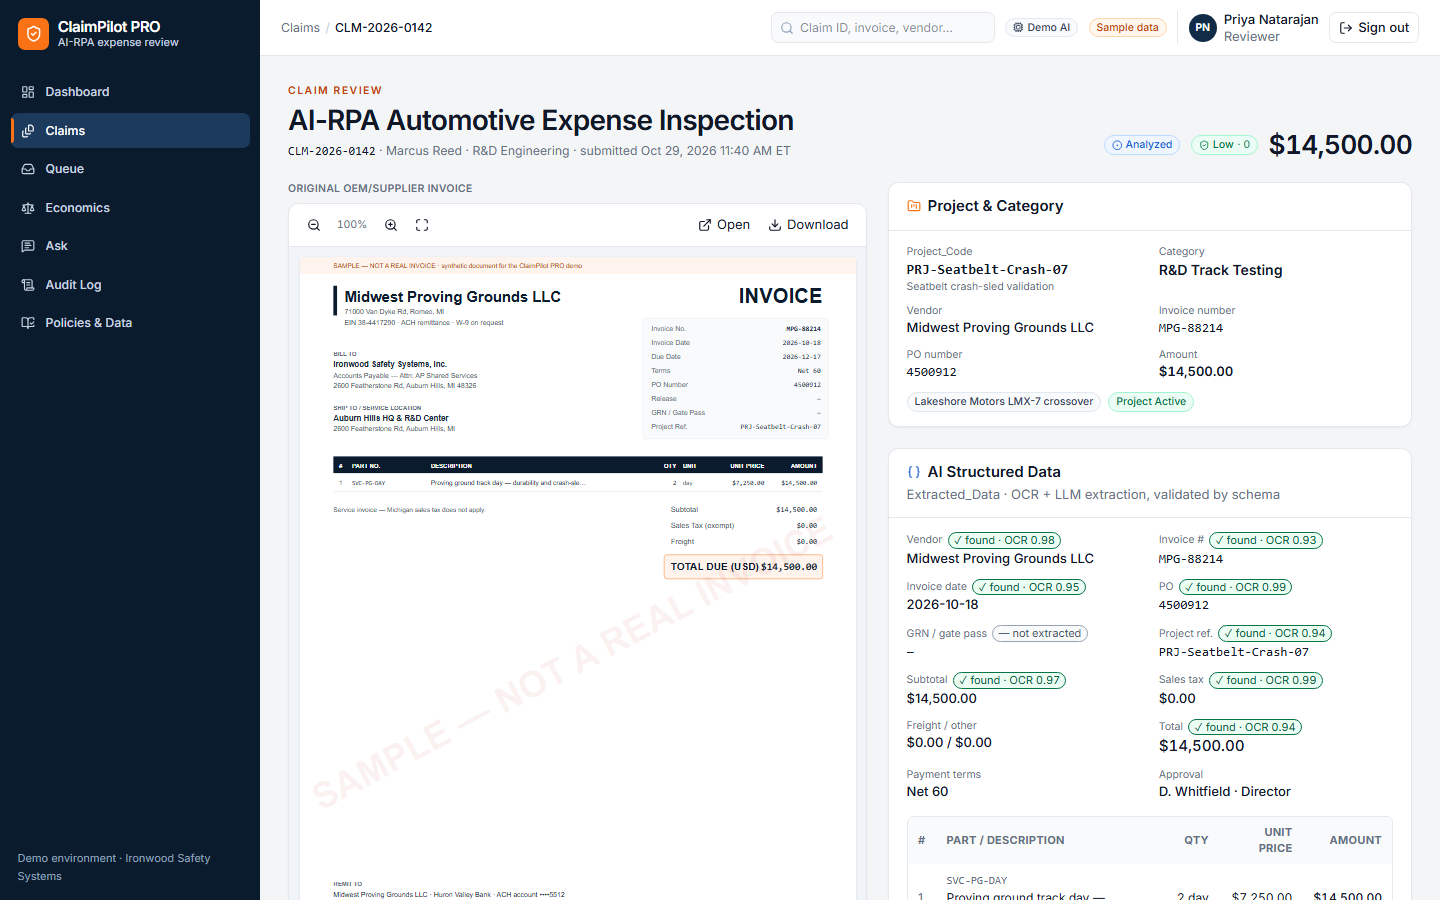
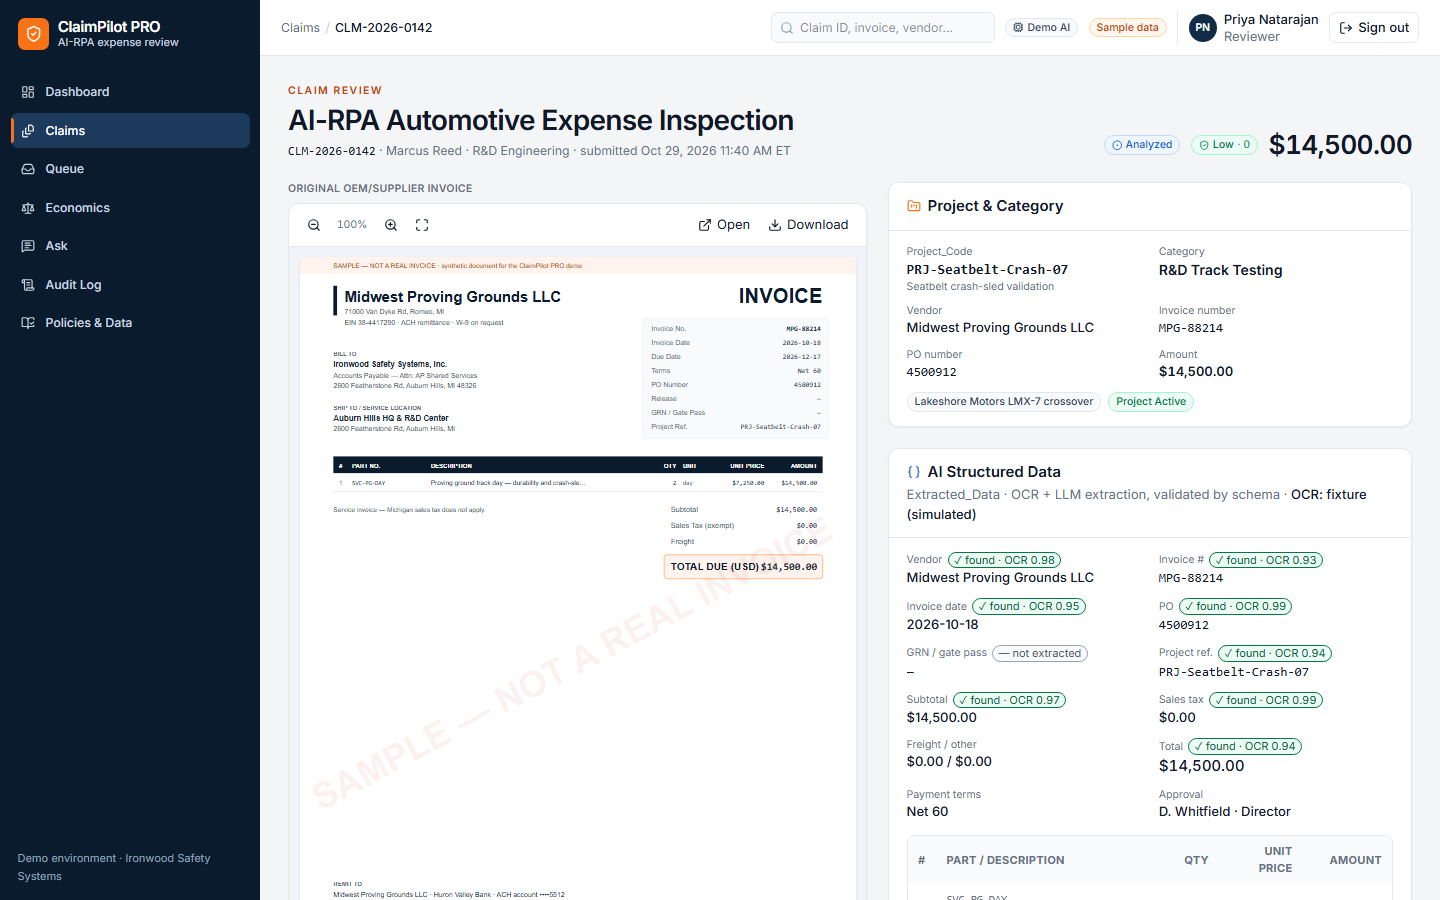
fix(ui): label simulated OCR confidence wherever it is shown; capture the annotated invoice
- src/lib/domain/ocr-source.ts: seeded claims use the demo fixture's OCR
  layer (simulated numbers), uploads use Tesseract page-level confidence.
- Chip titles and screen-reader text, the AI Structured Data subtitle
  ("OCR: fixture (simulated)"), the raw-JSON note, the annotated-invoice
  legend and the SVG image itself now state the source. Numbers kept.
- pnpm shots captures the annotated-invoice card as an element shot
  (topbar un-stuck for that capture); README table row and caption added.
  All screenshots regenerated on a freshly seeded DB in mock mode.

Changed region(s): [[0.7812, 0.5911, 0.9688, 1.0], [0.625, 0.56, 0.7812, 1.0], [0.9062, 0.5289, 0.9375, 0.56]]

diff --git a/src/components/claims/ai-data.tsx b/src/components/claims/ai-data.tsx
@@ -2,23 +2,27 @@ import { Braces, FileWarning } from "lucide-react";
 import type { Extraction } from "@/lib/domain/schemas";
 import { FIELD_LABELS, chipFor, fieldValue } from "@/lib/domain/fields";
 import type { FieldCheck } from "@/lib/ai/grounding";
+import { OCR_SOURCE_LABEL, type OcrSource } from "@/lib/domain/ocr-source";
 import { Card, CardContent, CardDescription, CardHeader, CardTitle } from "@/components/ui/card";
 import { Badge } from "@/components/ui/badge";
 
 const usd = (n: number | null) => (n === null ? "—" : new Intl.NumberFormat("en-US", { style: "currency", currency: "USD" }).format(n));
 
-function GroundingChip({ field, check, ocr }: { field: string; check: FieldCheck | undefined; ocr: number | undefined }) {
+function GroundingChip({ field, check, ocr, source }: { field: string; check: FieldCheck | undefined; ocr: number | undefined; source: OcrSource }) {
   if (check === undefined && ocr === undefined) return null;
   const chip = chipFor(check, ocr);
   return (
     <span
       className="tabular inline-flex items-center gap-1 rounded-full border px-1.5 text-[11px]"
       style={{ borderColor: chip.colors.stroke, color: chip.colors.text, background: chip.colors.fill }}
-      title="Is the value in the OCR text? · OCR-layer confidence (fixture or Tesseract), never the model's self-report"
+      title={`Is the value in the OCR text? · ${OCR_SOURCE_LABEL[source].title}; never the model's self-report`}
       data-testid={`chip-${field}`}
     >
       {chip.text}
-      <span className="sr-only"> for {FIELD_LABELS[field] ?? field}</span>
+      <span className="sr-only">
+        {" "}
+        for {FIELD_LABELS[field] ?? field}. {OCR_SOURCE_LABEL[source].title}.
+      </span>
     </span>
   );
 }
@@ -28,9 +32,12 @@ export function AiStructuredData({
   result,
   raw,
   checks,
+  ocrSource,
 }: {
   result: { ok: true; data: Extraction } | { ok: false; error: string } | null;
   raw: string | null;
+  /** Where the OCR layer (and its confidence numbers) came from: simulated fixture or Tesseract. */
+  ocrSource: OcrSource;
   /** Grounding of the scored extraction against the stored OCR text (D-37); null when no OCR text is stored. */
   checks: Record<string, FieldCheck> | null;
 }) {
@@ -41,7 +48,12 @@ export function AiStructuredData({
           <CardTitle className="flex items-center gap-2">
             <Braces className="h-4 w-4 text-info" aria-hidden /> AI Structured Data
           </CardTitle>
-          <CardDescription>Extracted_Data · OCR + LLM extraction, validated by schema</CardDescription>
+          <CardDescription>
+            Extracted_Data · OCR + LLM extraction, validated by schema ·{" "}
+            <span className="font-medium text-ink" title={OCR_SOURCE_LABEL[ocrSource].title} data-testid="ocr-source">
+              {OCR_SOURCE_LABEL[ocrSource].short}
+            </span>
+          </CardDescription>
         </div>
       </CardHeader>
       <CardContent>
@@ -54,14 +66,14 @@ export function AiStructuredData({
             </div>
           </div>
         ) : (
-          <ExtractionBody e={result.data} raw={raw} checks={checks} />
+          <ExtractionBody e={result.data} raw={raw} checks={checks} ocrSource={ocrSource} />
         )}
       </CardContent>
     </Card>
   );
 }
 
-function ExtractionBody({ e, raw, checks }: { e: Extraction; raw: string | null; checks: Record<string, FieldCheck> | null }) {
+function ExtractionBody({ e, raw, checks, ocrSource }: { e: Extraction; raw: string | null; checks: Record<string, FieldCheck> | null; ocrSource: OcrSource }) {
   const summary: [string, string, string | null][] = [
     ["Vendor", e.vendor.name ?? "—", "vendorName"],
     ["Invoice #", e.invoiceNumber ?? "—", "invoiceNumber"],
@@ -88,7 +100,7 @@ function ExtractionBody({ e, raw, checks }: { e: Extraction; raw: string | null;
         {summary.map(([label, value, field]) => (
           <div key={label} className="min-w-0">
             <dt className="flex items-center gap-1.5 text-xs text-muted">
-              {label} {field && <GroundingChip field={field} check={checks?.[field]} ocr={e.fieldConfidence[field]} />}
+              {label} {field && <GroundingChip field={field} check={checks?.[field]} ocr={e.fieldConfidence[field]} source={ocrSource} />}
             </dt>
             <dd className={`truncate font-medium ${label === "Total" ? "tabular text-[15px]" : "text-[13px]"} ${/[#.]|PO|GRN|Project/.test(label) ? "font-mono" : ""}`} title={value}>
               {value}
@@ -142,6 +154,9 @@ function ExtractionBody({ e, raw, checks }: { e: Extraction; raw: string | null;
       )}
       <details className="group rounded-lg border border-line">
         <summary className="cursor-pointer px-3 py-2 text-[13px] font-medium text-info">View raw JSON</summary>
+        <p className="border-t border-line px-3 py-2 text-xs text-muted">
+          <span className="font-mono">fieldConfidence</span>: {OCR_SOURCE_LABEL[ocrSource].title}.
+        </p>
         <pre className="max-h-80 overflow-auto border-t border-line bg-slate-950 p-3 text-[11px] leading-relaxed text-slate-100">{pretty}</pre>
       </details>
     </div>

diff --git a/src/lib/ai/annotate.ts b/src/lib/ai/annotate.ts
@@ -1,6 +1,7 @@
 import type { Extraction } from "@/lib/domain/schemas";
 import { CONFIDENCE_COLORS, FIELD_LABELS, chipFor, fieldValue } from "@/lib/domain/fields";
 import { checkField, GROUNDED_FIELDS, type GroundedField } from "./grounding";
+import { OCR_SOURCE_LABEL, type OcrSource } from "@/lib/domain/ocr-source";
 
 const W = 1200;
 const H = 1600;
@@ -15,7 +16,12 @@ const trunc = (s: string, n: number) => (s.length > n ? `${s.slice(0, n - 1)}…
  * The original is embedded as a data URI because SVG-as-image cannot fetch external resources.
  * Boxes are drawn only when the OCR layer supplied geometry; otherwise a "Fields extracted" panel is shown.
  */
-export function annotateReceipt(original: { data: Buffer; mime: string }, extraction: Extraction, ocrText: string | null = null): string {
+export function annotateReceipt(
+  original: { data: Buffer; mime: string },
+  extraction: Extraction,
+  ocrText: string | null = null,
+  ocrSource: OcrSource = "fixture",
+): string {
   // D-37: colour = grounding against the OCR text + OCR-layer confidence (never the model's self-report).
   const chip = (field: string) =>
     chipFor(
@@ -70,7 +76,7 @@ export function annotateReceipt(original: { data: Buffer; mime: string }, extrac
     parts.push(`<rect x="${x}" y="${ly + 34}" width="16" height="16" rx="3" fill="${c.stroke}"/>`);
     parts.push(`<text x="${x + 22}" y="${ly + 47}" font-size="12.5" font-family="Helvetica, Arial, sans-serif" fill="#344054">${esc(text)}</text>`);
   });
-  parts.push(`<text x="${lx + 14}" y="${ly + 80}" font-size="12.5" font-family="Helvetica, Arial, sans-serif" fill="#667085">AI-generated overlay — demo data</text>`);
+  parts.push(`<text x="${lx + 14}" y="${ly + 80}" font-size="12.5" font-family="Helvetica, Arial, sans-serif" fill="#667085">${esc(ocrSource === "fixture" ? "OCR numbers simulated (demo fixture), not measured" : OCR_SOURCE_LABEL.tesseract.title)}</text>`);
 
   return `<svg xmlns="http://www.w3.org/2000/svg" viewBox="0 0 ${W} ${H}" width="${W}" height="${H}" role="img" aria-label="AI-annotated invoice">${parts.join("")}</svg>`;
 }

diff --git a/src/components/claims/panels.tsx b/src/components/claims/panels.tsx
@@ -6,9 +6,10 @@ import { Table, TBody, TD, TH, THead, TR } from "@/components/ui/table";
 import { Badge } from "@/components/ui/badge";
 import { DecisionBadge, RiskBadge } from "./badges";
 import { ExceptionActions } from "./exception-actions";
+import { OCR_SOURCE_LABEL, type OcrSource } from "@/lib/domain/ocr-source";
 
 /** "AI-Annotated Invoice" — image connected to AI_Analyzed_Receipt. Rendered only for Status === "Analyzed". */
-export function AnnotatedInvoice({ src, claimId }: { src: string; claimId: string }) {
+export function AnnotatedInvoice({ src, claimId, ocrSource }: { src: string; claimId: string; ocrSource: OcrSource }) {
   return (
     <Card data-testid="ai-annotated-invoice">
       <CardHeader>
@@ -29,6 +30,9 @@ export function AnnotatedInvoice({ src, claimId }: { src: string; claimId: strin
         </div>
         <div className="mt-3 flex flex-wrap items-center gap-3 text-xs text-muted" title="Grounding against the OCR text and OCR-layer confidence; the model's self-reported confidence is never shown here">
           <span className="font-medium text-ink">Legend</span>
+          <span className="w-full" data-testid="annotated-ocr-source">
+            OCR numbers: <span className="font-medium text-ink">{OCR_SOURCE_LABEL[ocrSource].title}</span>
+          </span>
           <span className="inline-flex items-center gap-1.5">
             <span aria-hidden className="h-3 w-3 rounded-sm border-2" style={{ borderColor: CONFIDENCE_COLORS.high.stroke }} />✓ Found in OCR text, OCR ≥ 0.90
           </span>

diff --git a/src/app/(app)/claims/[claimId]/page.tsx b/src/app/(app)/claims/[claimId]/page.tsx
@@ -8,6 +8,7 @@ import { prisma } from "@/lib/db";
 import { claimIdSchema, parseExtractedData } from "@/lib/domain/schemas";
 import { FIELD_LABELS } from "@/lib/domain/fields";
 import { groundExtraction } from "@/lib/ai/grounding";
+import { ocrSourceOf } from "@/lib/domain/ocr-source";
 import { formatUsd, toCents } from "@/lib/domain/money";
 import { formatEt } from "@/lib/domain/dates";
 import { Card, CardContent, CardHeader, CardTitle } from "@/components/ui/card";
@@ -172,8 +173,8 @@ export default async function ClaimReviewPage({ params }: { params: Params }) {
 
           {showAi ? (
             <>
-              <AiStructuredData result={extracted} raw={claim.extractedData} checks={extracted?.ok && claim.ocrText ? groundExtraction(extracted.data, claim.ocrText) : null} />
-              {claim.aiAnalyzedReceipt && <AnnotatedInvoice src={claim.aiAnalyzedReceipt} claimId={claim.claimId} />}
+              <AiStructuredData result={extracted} raw={claim.extractedData} checks={extracted?.ok && claim.ocrText ? groundExtraction(extracted.data, claim.ocrText) : null} ocrSource={ocrSourceOf(claim.source)} />
+              {claim.aiAnalyzedReceipt && <AnnotatedInvoice src={claim.aiAnalyzedReceipt} claimId={claim.claimId} ocrSource={ocrSourceOf(claim.source)} />}
             </>
           ) : (
             <LockedPlaceholder />

diff --git a/src/tests/chips.test.ts b/src/tests/chips.test.ts
@@ -25,3 +25,21 @@ describe("annotated invoice", () => {
     expect(svg).not.toContain(">OCR confidence<");
   });
 });
+
+describe("OCR source disclosure (D-25 / D-37)", () => {
+  it("seeded claims are labelled as simulated fixture confidence, uploads as Tesseract page-level", async () => {
+    const { ocrSourceOf, OCR_SOURCE_LABEL } = await import("@/lib/domain/ocr-source");
+    expect(ocrSourceOf("seed")).toBe("fixture");
+    expect(ocrSourceOf("upload")).toBe("tesseract");
+    expect(OCR_SOURCE_LABEL.fixture).toEqual({ short: "OCR: fixture (simulated)", title: "Simulated OCR confidence (demo fixture) — not a measurement" });
+    expect(OCR_SOURCE_LABEL.tesseract.title).toBe("Tesseract page-level confidence");
+  });
+
+  it("the annotated invoice image itself states where its numbers came from", async () => {
+    const f = (await loadFixture("CLM-2026-0144"))!;
+    const img = { data: Buffer.from("<svg/>"), mime: "image/svg+xml" };
+    expect(annotateReceipt(img, f.extraction, f.ocrText, "fixture")).toContain("OCR numbers simulated (demo fixture), not measured");
+    expect(annotateReceipt(img, f.extraction, f.ocrText, "tesseract")).toContain("Tesseract page-level confidence");
+    expect(annotateReceipt(img, f.extraction, f.ocrText, "fixture")).not.toContain("AI-generated overlay — demo data");
+  });
+});

diff --git a/scripts/screenshots.ts b/scripts/screenshots.ts
@@ -95,6 +95,17 @@ async function main() {
     await page.screenshot({ path: path.join(OUT, "claim-analyzed.png") });
     console.log("✔ audit-frames/03-done.png, claim-analyzed.png");
 
+    // The annotated invoice sits below the 1440x900 fold: capture the card itself, not the page.
+    const annotated = page.locator('[data-testid="ai-annotated-invoice"]');
+    // The sticky topbar would overlap the card's header in an element shot; let it scroll away for this capture.
+    const unstick = await page.addStyleTag({ content: "header.sticky { position: static !important; }" });
+    await annotated.scrollIntoViewIfNeeded();
+    await annotated.locator("img").evaluate((img: HTMLImageElement) => (img.complete ? null : new Promise((r) => img.addEventListener("load", r, { once: true }))));
+    await annotated.screenshot({ path: path.join(OUT, "annotated-invoice.png") });
+    console.log("✔ annotated-invoice.png");
+    await unstick.evaluate((el) => el.remove());
+    await page.evaluate(() => window.scrollTo(0, 0));
+
     await page.getByText("How this was calculated").click();
     const riskCard = page.locator("section", { has: page.locator("#risk-title") });
     await riskCard.scrollIntoViewIfNeeded();

diff --git a/src/lib/domain/ocr-source.ts b/src/lib/domain/ocr-source.ts
@@ -1,0 +1,15 @@
+// Where an OCR confidence number came from (D-25, D-37). Seeded claims always use the demo fixture's OCR layer,
+// whose per-field numbers are simulated (sha256(claimId:field) mapped into [0.93, 0.995], plus planted lowOcr
+// samples); uploads use Tesseract's page-level confidence. The UI must say which, wherever a number is shown.
+
+export type OcrSource = "fixture" | "tesseract";
+
+/** run-audit.ts uses the fixture OCR exactly when the claim is seeded, Tesseract otherwise. */
+export function ocrSourceOf(claimSource: string | null | undefined): OcrSource {
+  return claimSource === "seed" ? "fixture" : "tesseract";
+}
+
+export const OCR_SOURCE_LABEL: Record<OcrSource, { short: string; title: string }> = {
+  fixture: { short: "OCR: fixture (simulated)", title: "Simulated OCR confidence (demo fixture) — not a measurement" },
+  tesseract: { short: "OCR: Tesseract", title: "Tesseract page-level confidence" },
+};

diff --git a/src/lib/seed/run.ts b/src/lib/seed/run.ts
@@ -259,7 +259,7 @@ export async function seedDatabase(prisma: PrismaClient, opts: { log?: (msg: str
     if (c.status !== "Pending") {
       result = evaluateRisk(seedRiskInput(plan, c));
       analyzedAt = new Date(c.submittedAt.getTime() + (c.cycleHours ?? 4) * 3_600_000);
-      const annotated = annotateReceipt({ data: Buffer.from(svg), mime: "image/svg+xml" }, fixture.extraction, fixture.ocrText);
+      const annotated = annotateReceipt({ data: Buffer.from(svg), mime: "image/svg+xml" }, fixture.extraction, fixture.ocrText, "fixture");
       await writeReceiptFile(c.claimId, "analyzed.svg", annotated);
       if (result.findings.length > 0) flagged++;
       if (!c.plannedAnomaly && result.findings.length > 0) unexpected.push(`${c.claimId} (${c.category}): ${result.findings.map((f) => f.ruleId).join(",")}`);

diff --git a/src/lib/audit/run-audit.ts b/src/lib/audit/run-audit.ts
@@ -173,7 +173,7 @@ export async function runAudit(claimId: string, opts: RunAuditOptions): Promise<
     }
 
     // 9. Annotated SVG.
-    await writeReceiptFile(claimId, "analyzed.svg", annotateReceipt({ data: receipt, mime }, extraction, ocr.text));
+    await writeReceiptFile(claimId, "analyzed.svg", annotateReceipt({ data: receipt, mime }, extraction, ocr.text, ocr.source));
 
     const analyzedAt = new Date();
     const entry = auditEntryFor(result.findings, claim.department);

diff --git a/README.md b/README.md
@@ -72,8 +72,8 @@ Captured with `pnpm shots` (Playwright, 1440×900, against a running server with
 | **Audit log**: append-only trail; system rows show who initiated them | **Exceptions**: a handled exception shows who handled it |
 | ![Sign-in page](docs/images/login.png) | |
 | **Sign in**: every page requires a session; demo accounts listed | |
-| ![Queue](docs/images/queue.png) | |
-| **Queue**: assigned work by stage, plus an Unassigned section | |
+| ![Queue](docs/images/queue.png) | ![AI-annotated invoice](docs/images/annotated-invoice.png) |
+| **Queue**: assigned work by stage, plus an Unassigned section | **AI-annotated invoice**: green = found in the OCR text with OCR confidence ≥ 0.90, amber = 0.75–0.89, red = not found in the OCR text or OCR < 0.75. For seeded claims the OCR numbers are simulated (demo fixture), not measured; the card and the image say so |
 | ![Review cost curve](docs/images/cost-curve.svg) | |
 | **Review economics**: total cost vs review capacity; the minimum sits where marginal expected loss crosses the $18 review cost | |
 
